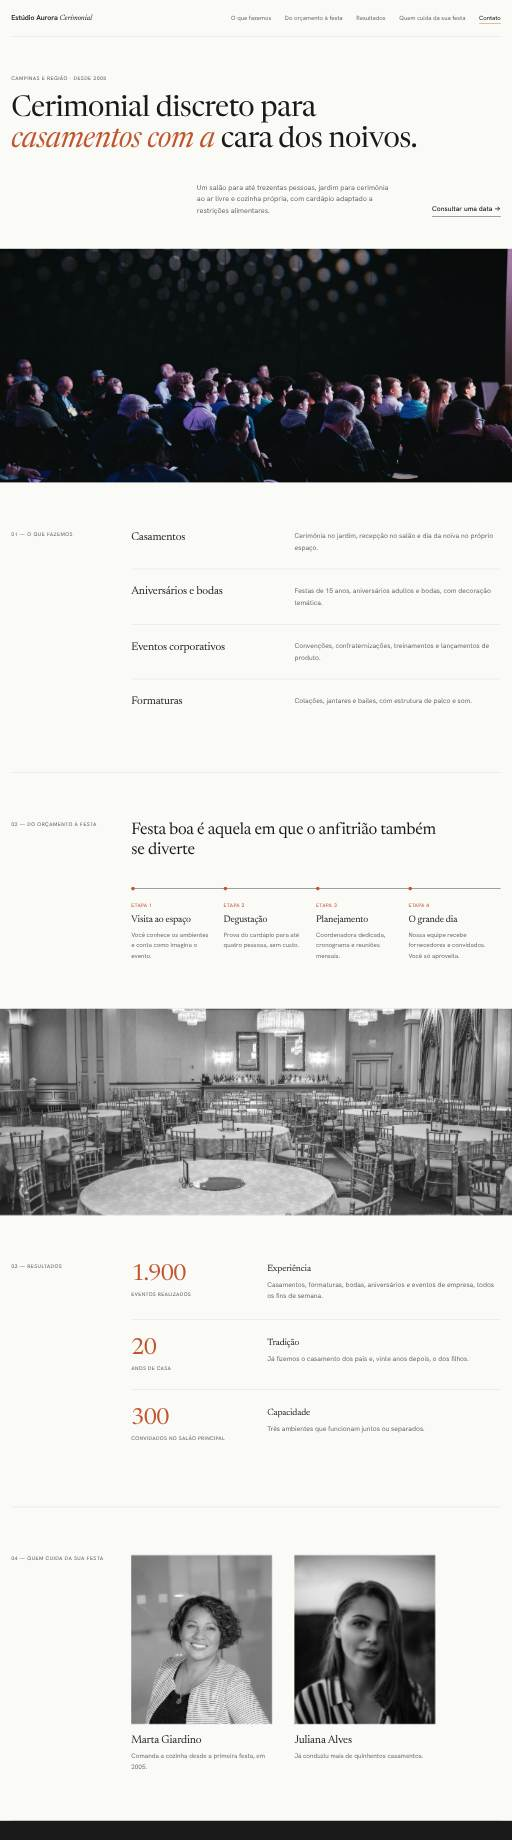
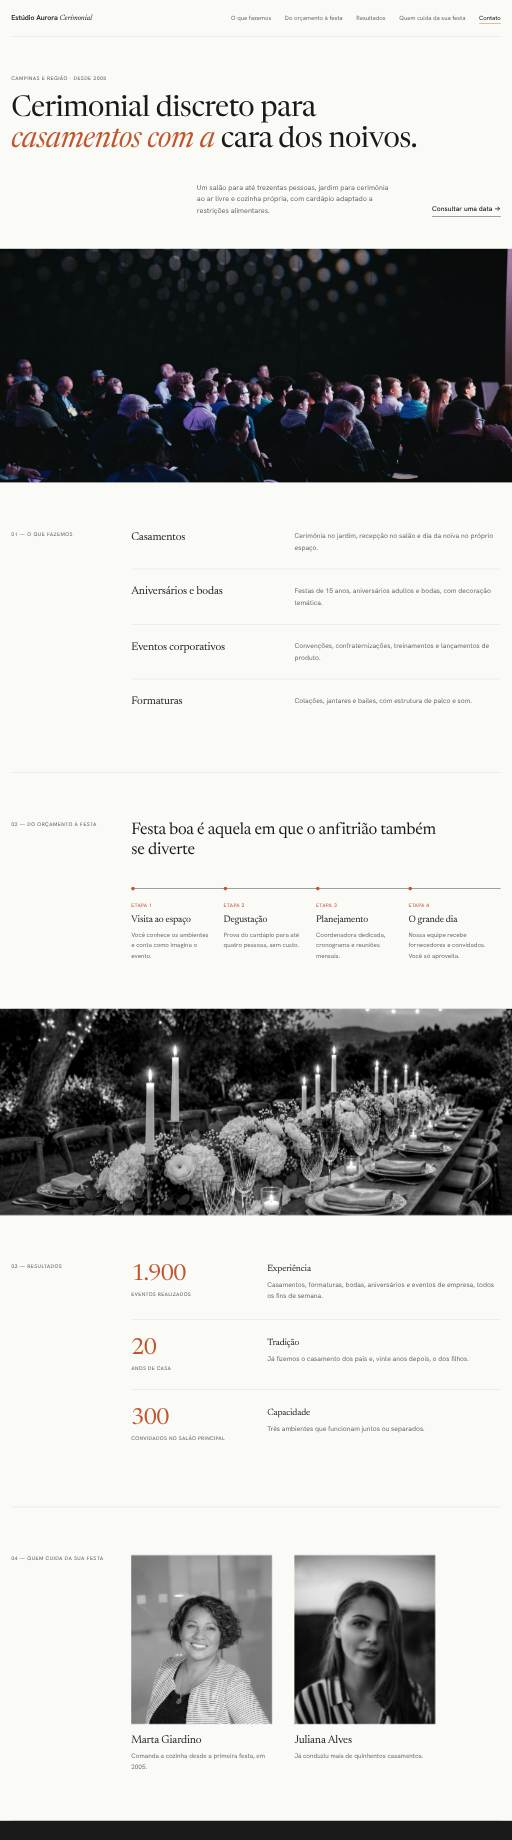
Bring eventos to 10 photos
Claude-Session: https://claude.ai/code/session_0151Yi9K8yWSyYvoKWm1KgPz

Changed region(s): [[0.0, 0.5266, 1.0, 0.6815]]

diff --git a/kolp-modelos/demo/eventos-07/index.html b/kolp-modelos/demo/eventos-07/index.html
@@ -35,7 +35,7 @@
       <p class="lide">Cada evento tem uma coordenadora dedicada do primeiro orçamento ao dia da festa, com cronograma e lista de tarefas compartilhados.</p>
       <div class="acoes"><a class="botao" href="#contato">Consultar uma data</a><a class="elo" href="#servicos">Ver pacotes e valores</a></div>
     </div>
-    <figure class="arco"><img src="../../fotos/eventos/1.jpg" alt="" width="1400" height="930"><figcaption>Desde 2005</figcaption></figure>
+    <figure class="arco"><img src="../../fotos/eventos/7.jpg" alt="" width="1400" height="930"><figcaption>Desde 2005</figcaption></figure>
   </div>
   <div class="largura"><dl class="indices"><div><dd>1.900</dd><dt>eventos realizados</dt></div><div><dd>20</dd><dt>anos de casa</dt></div><div><dd>300</dd><dt>convidados no salão principal</dt></div><div><dd>98%</dd><dt>dos clientes nos recomendam</dt></div></dl></div>
   </section>
@@ -43,7 +43,7 @@
     <header class="topo rev"><h2>O que fazemos</h2><p>Da cerimônia ao último café, com equipe própria.</p></header>
     <ol class="cartoes"><li class="rev"><h3>Casamentos</h3><p>Cerimônia no jardim, recepção no salão e dia da noiva no próprio espaço.</p></li><li class="rev"><h3>Aniversários e bodas</h3><p>Festas de 15 anos, aniversários adultos e bodas, com decoração temática.</p></li><li class="rev"><h3>Eventos corporativos</h3><p>Convenções, confraternizações, treinamentos e lançamentos de produto.</p></li><li class="rev"><h3>Formaturas</h3><p>Colações, jantares e bailes, com estrutura de palco e som.</p></li><li class="rev"><h3>Buffet externo</h3><p>Levamos cozinha, equipe e louça ao local que você escolher.</p></li><li class="rev"><h3>Decoração e cerimonial</h3><p>Flores, mobiliário, iluminação e coordenação do dia.</p></li></ol>
   </div></section>
-  <section class="faixa rev"><img src="../../fotos/eventos/2.jpg" alt="" width="1400" height="930" loading="lazy"><p>“Festa boa é aquela em que o anfitrião também se diverte”</p></section>
+  <section class="faixa rev"><img src="../../fotos/eventos/8.jpg" alt="" width="1400" height="930" loading="lazy"><p>“Festa boa é aquela em que o anfitrião também se diverte”</p></section>
   <section class="precos" id="precos"><div class="largura precos-grade">
     <div class="precos-lado rev"><h2>Pacotes e valores</h2><p>Valores por convidado, para eventos de cem pessoas.</p><a class="botao" href="#contato">Consultar uma data</a></div>
     <div class="rev"><details open><summary>Coquetel</summary><ul><li><div><b>Coquetel clássico</b><span>12 tipos de finger food, 4 horas</span></div><strong>R$ 139</strong></li><li><div><b>Brunch</b><span>Mesa de pães, frios e quentes</span></div><strong>R$ 119</strong></li><li><div><b>Coffee break</b><span>Para eventos corporativos</span></div><strong>R$ 48</strong></li></ul></details><details><summary>Jantar</summary><ul><li><div><b>Jantar servido</b><span>Entrada, dois pratos e sobremesa</span></div><strong>R$ 219</strong></li><li><div><b>Ilhas gastronômicas</b><span>Massas, risotos e carnes</span></div><strong>R$ 189</strong></li><li><div><b>Churrasco</b><span>Cortes nobres e acompanhamentos</span></div><strong>R$ 169</strong></li><li><div><b>Menu infantil</b><span>Para crianças de 5 a 10 anos</span></div><strong>R$ 79</strong></li></ul></details><details><summary>Complementos</summary><ul><li><div><b>Open bar</b><span>Drinques clássicos e autorais</span></div><strong>R$ 58</strong></li><li><div><b>Mesa de doces</b><span>20 variedades finas</span></div><strong>R$ 32</strong></li><li><div><b>Decoração floral</b><span>Projeto personalizado</span></div><strong>sob consulta</strong></li></ul></details></div>

diff --git a/kolp-modelos/demo/eventos-08/index.html b/kolp-modelos/demo/eventos-08/index.html
@@ -34,17 +34,17 @@
     <p class="lide">Degustação gratuita para o casal, visita ao espaço em qualquer dia da semana e data reservada com 20% de entrada.</p>
     <div class="acoes"><a class="botao" href="#contato">Consultar uma data</a><a class="elo" href="#servicos">Ver pacotes e valores</a></div>
     <div class="mosaico">
-      <img class="m1" src="../../fotos/eventos/3.jpg" alt="" width="1400" height="930">
-      <img class="m2" src="../../fotos/eventos/2.jpg" alt="" width="1400" height="930">
-      <img class="m3" src="../../fotos/eventos/4.jpg" alt="" width="1400" height="930">
+      <img class="m1" src="../../fotos/eventos/9.jpg" alt="" width="1400" height="930">
+      <img class="m2" src="../../fotos/eventos/8.jpg" alt="" width="1400" height="930">
+      <img class="m3" src="../../fotos/eventos/10.jpg" alt="" width="1400" height="930">
       <p class="selo"><b>1.900</b>eventos realizados</p>
     </div>
   </div></section>
   <section class="pontos"><ul class="largura"><li class="rev">Espaço, buffet e decoração em um contrato</li><li class="rev">Degustação gratuita do cardápio</li><li class="rev">Coordenadora dedicada ao seu evento</li></ul></section>
   <section class="servicos" id="servicos"><div class="largura">
     <header class="topo rev"><h2>O que fazemos</h2><p>Da cerimônia ao último café, com equipe própria.</p></header>
-    <div class="par rev"><img src="../../fotos/eventos/5.jpg" alt="" width="1400" height="930" loading="lazy"><ul><li><h3>Casamentos</h3><p>Cerimônia no jardim, recepção no salão e dia da noiva no próprio espaço.</p></li><li><h3>Aniversários e bodas</h3><p>Festas de 15 anos, aniversários adultos e bodas, com decoração temática.</p></li><li><h3>Eventos corporativos</h3><p>Convenções, confraternizações, treinamentos e lançamentos de produto.</p></li></ul></div>
-    <div class="par par-inv rev"><img src="../../fotos/eventos/6.jpg" alt="" width="1400" height="930" loading="lazy"><ul><li><h3>Formaturas</h3><p>Colações, jantares e bailes, com estrutura de palco e som.</p></li><li><h3>Buffet externo</h3><p>Levamos cozinha, equipe e louça ao local que você escolher.</p></li><li><h3>Decoração e cerimonial</h3><p>Flores, mobiliário, iluminação e coordenação do dia.</p></li></ul></div>
+    <div class="par rev"><img src="../../fotos/eventos/1.jpg" alt="" width="1400" height="930" loading="lazy"><ul><li><h3>Casamentos</h3><p>Cerimônia no jardim, recepção no salão e dia da noiva no próprio espaço.</p></li><li><h3>Aniversários e bodas</h3><p>Festas de 15 anos, aniversários adultos e bodas, com decoração temática.</p></li><li><h3>Eventos corporativos</h3><p>Convenções, confraternizações, treinamentos e lançamentos de produto.</p></li></ul></div>
+    <div class="par par-inv rev"><img src="../../fotos/eventos/2.jpg" alt="" width="1400" height="930" loading="lazy"><ul><li><h3>Formaturas</h3><p>Colações, jantares e bailes, com estrutura de palco e som.</p></li><li><h3>Buffet externo</h3><p>Levamos cozinha, equipe e louça ao local que você escolher.</p></li><li><h3>Decoração e cerimonial</h3><p>Flores, mobiliário, iluminação e coordenação do dia.</p></li></ul></div>
   </div></section>
   <section class="precos" id="precos"><div class="largura">
     <header class="topo rev"><h2>Pacotes e valores</h2><p>Valores por convidado, para eventos de cem pessoas.</p></header>

diff --git a/kolp-modelos/demo/eventos-10/index.html b/kolp-modelos/demo/eventos-10/index.html
@@ -30,7 +30,7 @@
 <div class="conteudo">
 <main>
   <section class="abertura">
-    <img src="../../fotos/eventos/4.jpg" alt="" width="1400" height="930">
+    <img src="../../fotos/eventos/10.jpg" alt="" width="1400" height="930">
     <div class="legenda"><p class="rotulo">Desde 2005 · Campinas e região</p><h1>O buffet que serviu o casamento dos seus pais.</h1></div>
   </section>
   <section class="sobre" id="sobre">
@@ -41,7 +41,7 @@
     <header class="topo"><h2>O que fazemos</h2><p>Da cerimônia ao último café, com equipe própria.</p></header>
     <ul class="servicos"><li><h3>Casamentos</h3><p>Cerimônia no jardim, recepção no salão e dia da noiva no próprio espaço.</p></li><li><h3>Aniversários e bodas</h3><p>Festas de 15 anos, aniversários adultos e bodas, com decoração temática.</p></li><li><h3>Eventos corporativos</h3><p>Convenções, confraternizações, treinamentos e lançamentos de produto.</p></li><li><h3>Formaturas</h3><p>Colações, jantares e bailes, com estrutura de palco e som.</p></li><li><h3>Buffet externo</h3><p>Levamos cozinha, equipe e louça ao local que você escolher.</p></li><li><h3>Decoração e cerimonial</h3><p>Flores, mobiliário, iluminação e coordenação do dia.</p></li></ul>
   </section>
-  <figure class="citacao"><img src="../../fotos/eventos/5.jpg" alt="" width="1400" height="930" loading="lazy"><blockquote>“Festa boa é aquela em que o anfitrião também se diverte”</blockquote></figure>
+  <figure class="citacao"><img src="../../fotos/eventos/1.jpg" alt="" width="1400" height="930" loading="lazy"><blockquote>“Festa boa é aquela em que o anfitrião também se diverte”</blockquote></figure>
   <section id="equipe">
     <header class="topo"><h2>Quem cuida da sua festa</h2><p>Uma equipe fixa de vinte pessoas, que trabalha junta há mais de dez anos.</p></header>
     <div class="equipe"><article><img src="../../fotos/retratos/f1.jpg" alt="Retrato de Marta Giardino" width="560" height="680" loading="lazy"><div><h3>Marta Giardino</h3><p class="cargo">Fundadora e chef</p><p>Comanda a cozinha desde a primeira festa, em 2005.</p></div></article><article><img src="../../fotos/retratos/f2.jpg" alt="Retrato de Juliana Alves" width="560" height="680" loading="lazy"><div><h3>Juliana Alves</h3><p class="cargo">Coordenadora de eventos</p><p>Já conduziu mais de quinhentos casamentos.</p></div></article><article><img src="../../fotos/retratos/m1.jpg" alt="Retrato de Ricardo Sena" width="560" height="680" loading="lazy"><div><h3>Ricardo Sena</h3><p class="cargo">Produção e estrutura</p><p>Responsável por som, luz, montagem e logística.</p></div></article></div>

diff --git a/kolp-modelos/demo/eventos-09/index.html b/kolp-modelos/demo/eventos-09/index.html
@@ -30,7 +30,7 @@
 </div></header>
 <main>
   <section class="abertura">
-    <img src="../../fotos/eventos/3.jpg" alt="" width="1400" height="930">
+    <img src="../../fotos/eventos/9.jpg" alt="" width="1400" height="930">
     <div class="abertura-bloco"><div>
       <p class="rotulo">Campinas e região</p>
       <h1>Palco, som, luz e telão montados antes de você chegar.</h1>
@@ -51,7 +51,7 @@
     <header class="topo"><h2>Pacotes e valores</h2><p>Valores por convidado, para eventos de cem pessoas.</p></header>
     <div class="tabela-rolagem"><table><tbody><tr class="grupo"><th colspan="3">Coquetel</th></tr><tr><th>Coquetel clássico</th><td>12 tipos de finger food, 4 horas</td><td>R$ 139</td></tr><tr><th>Brunch</th><td>Mesa de pães, frios e quentes</td><td>R$ 119</td></tr><tr><th>Coffee break</th><td>Para eventos corporativos</td><td>R$ 48</td></tr></tbody><tbody><tr class="grupo"><th colspan="3">Jantar</th></tr><tr><th>Jantar servido</th><td>Entrada, dois pratos e sobremesa</td><td>R$ 219</td></tr><tr><th>Ilhas gastronômicas</th><td>Massas, risotos e carnes</td><td>R$ 189</td></tr><tr><th>Churrasco</th><td>Cortes nobres e acompanhamentos</td><td>R$ 169</td></tr><tr><th>Menu infantil</th><td>Para crianças de 5 a 10 anos</td><td>R$ 79</td></tr></tbody><tbody><tr class="grupo"><th colspan="3">Complementos</th></tr><tr><th>Open bar</th><td>Drinques clássicos e autorais</td><td>R$ 58</td></tr><tr><th>Mesa de doces</th><td>20 variedades finas</td><td>R$ 32</td></tr><tr><th>Decoração floral</th><td>Projeto personalizado</td><td>sob consulta</td></tr></tbody></table></div>
   </div></section>
-  <section class="prova"><img src="../../fotos/eventos/4.jpg" alt="" width="1400" height="930" loading="lazy">
+  <section class="prova"><img src="../../fotos/eventos/10.jpg" alt="" width="1400" height="930" loading="lazy">
     <blockquote><p>“Choveu a tarde inteira e em quarenta minutos a cerimônia estava montada no salão, com as mesmas flores. Os convidados acharam que era o plano desde o começo.”</p><footer><b>Isabela e Rafael</b> casaram em outubro de 2025</footer></blockquote>
   </section>
   <section class="contato" id="contato"><div class="largura contato-grade">

diff --git a/kolp-modelos/demo/eventos-06/index.html b/kolp-modelos/demo/eventos-06/index.html
@@ -44,7 +44,7 @@
     <div><p class="frase rev">Festa boa é aquela em que o anfitrião também se diverte</p>
       <ol class="etapas"><li class="rev"><span>Etapa 1</span><h3>Visita ao espaço</h3><p>Você conhece os ambientes e conta como imagina o evento.</p></li><li class="rev"><span>Etapa 2</span><h3>Degustação</h3><p>Prova do cardápio para até quatro pessoas, sem custo.</p></li><li class="rev"><span>Etapa 3</span><h3>Planejamento</h3><p>Coordenadora dedicada, cronograma e reuniões mensais.</p></li><li class="rev"><span>Etapa 4</span><h3>O grande dia</h3><p>Nossa equipe recebe fornecedores e convidados. Você só aproveita.</p></li></ol></div>
   </div></section>
-  <figure class="faixa-foto rev"><img src="../../fotos/eventos/1.jpg" alt="" width="1400" height="930" loading="lazy"></figure>
+  <figure class="faixa-foto rev"><img src="../../fotos/eventos/7.jpg" alt="" width="1400" height="930" loading="lazy"></figure>
   <section class="casos" id="resultados"><div class="largura bloco">
     <h2 class="rotulo">03 — Resultados</h2>
     <div><article class="rev"><p class="resultado">1.900<small>eventos realizados</small></p><div><h3>Experiência</h3><p>Casamentos, formaturas, bodas, aniversários e eventos de empresa, todos os fins de semana.</p></div></article><article class="rev"><p class="resultado">20<small>anos de casa</small></p><div><h3>Tradição</h3><p>Já fizemos o casamento dos pais e, vinte anos depois, o dos filhos.</p></div></article><article class="rev"><p class="resultado">300<small>convidados no salão principal</small></p><div><h3>Capacidade</h3><p>Três ambientes que funcionam juntos ou separados.</p></div></article></div>

diff --git a/kolp-modelos/demo/eventos-05/index.html b/kolp-modelos/demo/eventos-05/index.html
@@ -52,7 +52,7 @@
       <a class="botao botao-grande" href="https://wa.me/5511999999999?text=Ol%C3%A1!%20Vim%20pelo%20site.">Consultar uma data</a></div>
   </div></section>
   <section class="loja" id="local">
-    <img class="loja-fundo" src="../../fotos/eventos/1.jpg" alt="" width="1400" height="930" loading="lazy">
+    <img class="loja-fundo" src="../../fotos/eventos/7.jpg" alt="" width="1400" height="930" loading="lazy">
     <div class="largura loja-grade"><div class="cartao">
       <h2>Consulte a data do seu evento</h2>
       <p class="endereco">Estrada da Rhodia, 5.800 — Barão Geraldo, Campinas</p>
